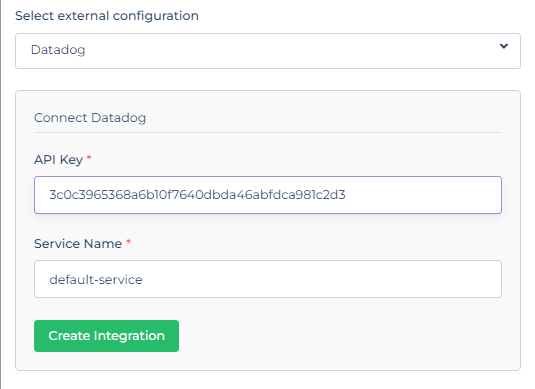
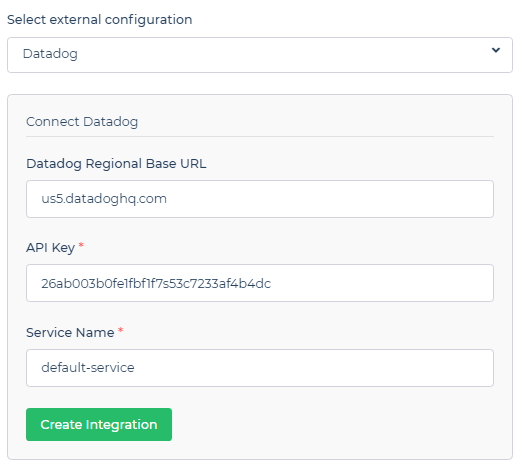
Datadog multiple regional support

diff --git a/docs/audit-logger/datadog-setup.md b/docs/audit-logger/datadog-setup.md
@@ -47,9 +47,15 @@ To get started with Datadog integration, follow these steps:
   <figcaption align = "center"><i>Datadog Choose Log Source</i></figcaption>
 </figure>
 
-5. In DronaHQ, Click the "Create Integration" button to initiate the integration process.
+6. Copy the Base URL of your Datadog.
+<figure>
+  <Thumbnail src="/img/audit-logger/datadog-baseurl.png" alt="Regional Base URL" width='100%'/>
+  <figcaption align = "center"><i>Datadog Choose Log Source</i></figcaption>
+</figure>
 
-6. Once the integration is successful, you will see a `Logger Initialized` message.
+7. In DronaHQ, Click the "Create Integration" button to initiate the integration process.
+
+8. Once the integration is successful, you will see a `Logger Initialized` message.
 
 <figure>
   <Thumbnail src="/img/audit-logger/datadog-setup.png" alt="Datadog Setup" width='100%'/>
